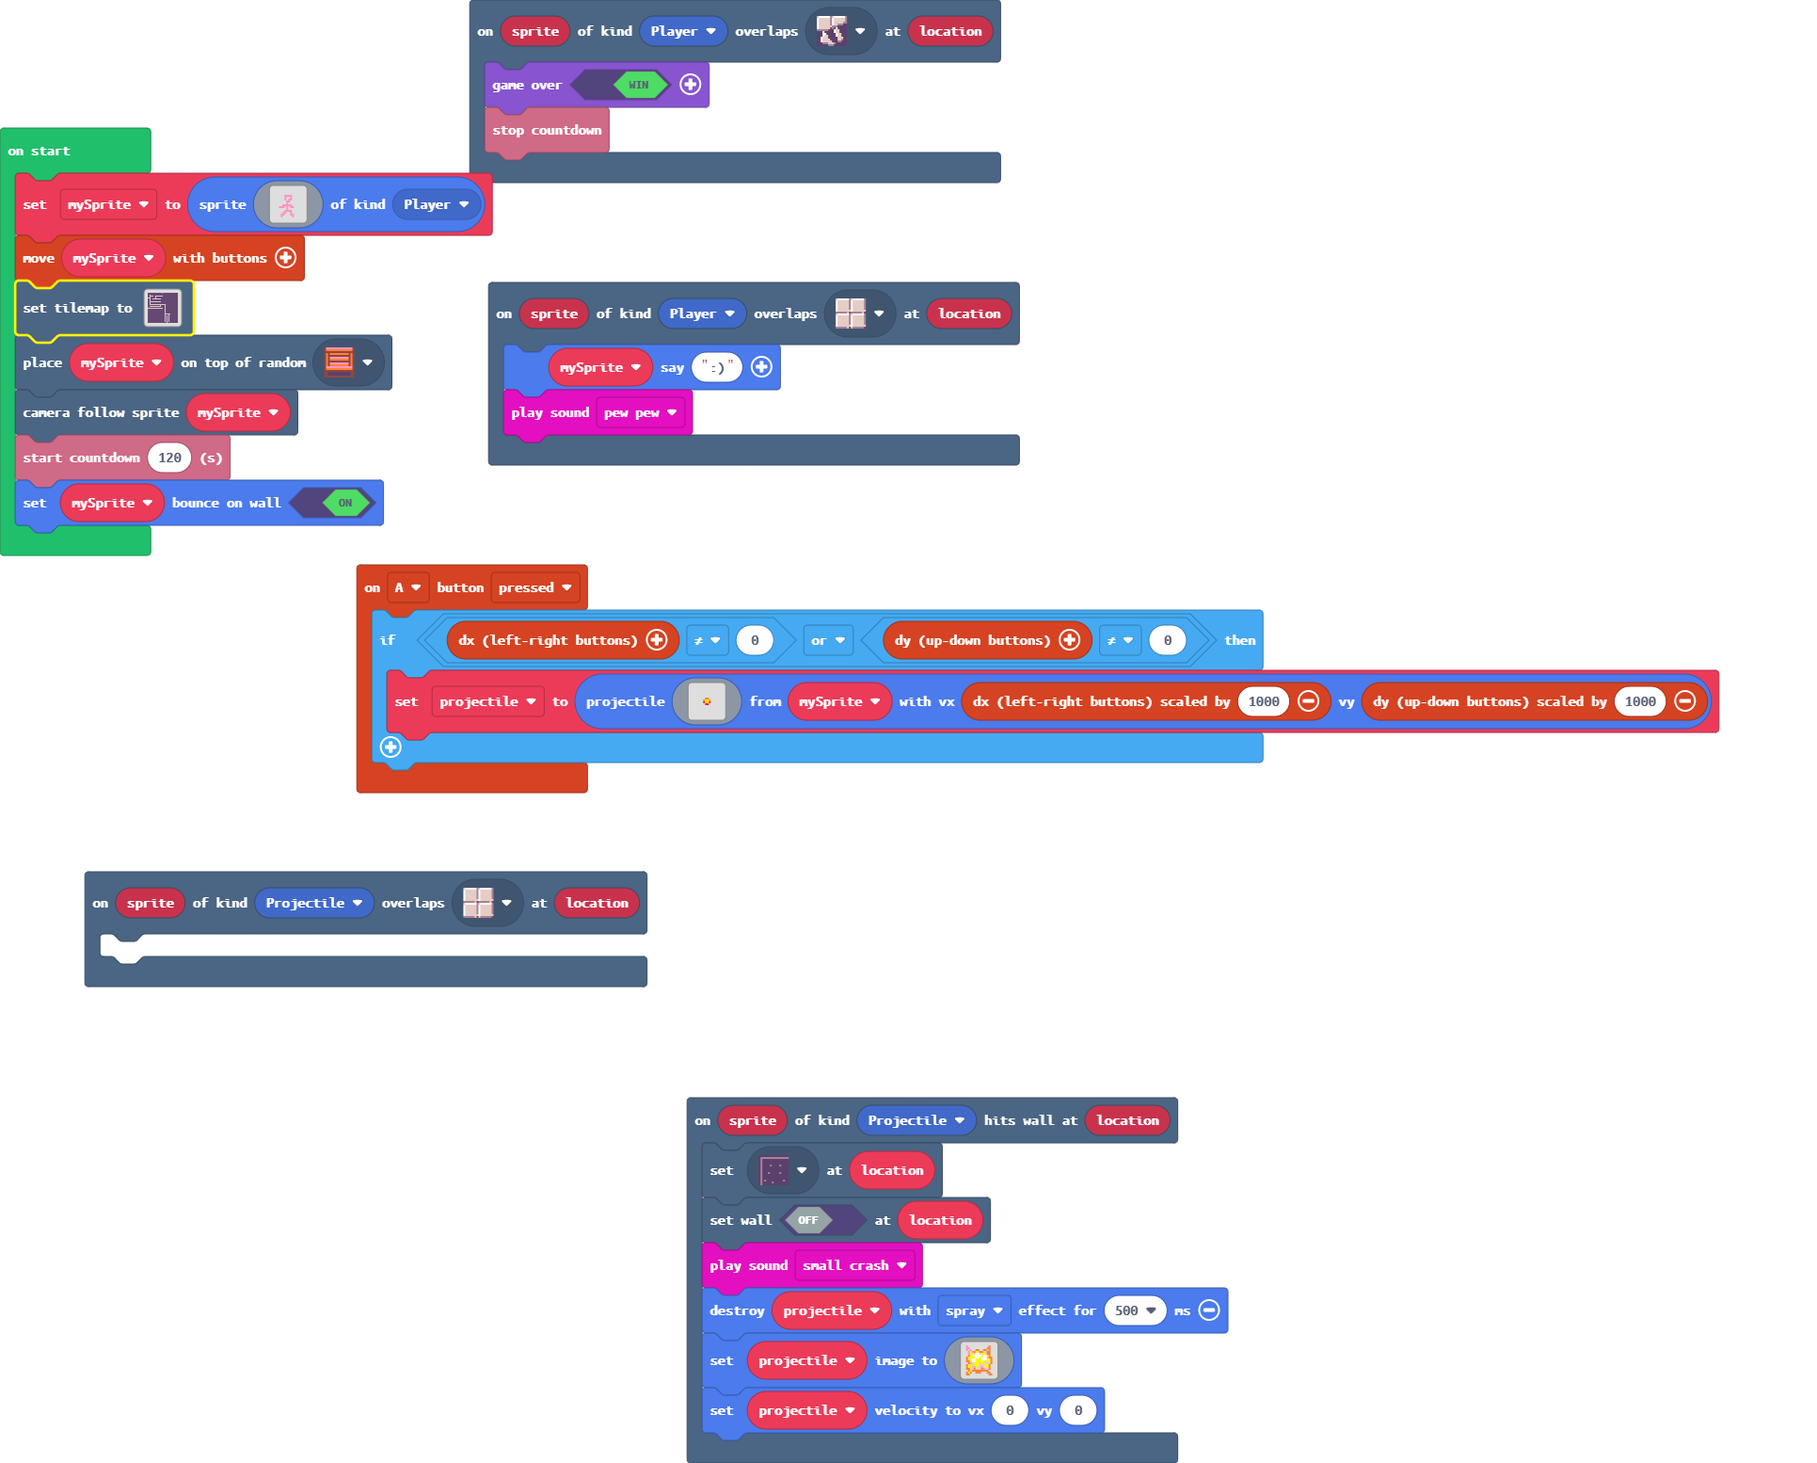
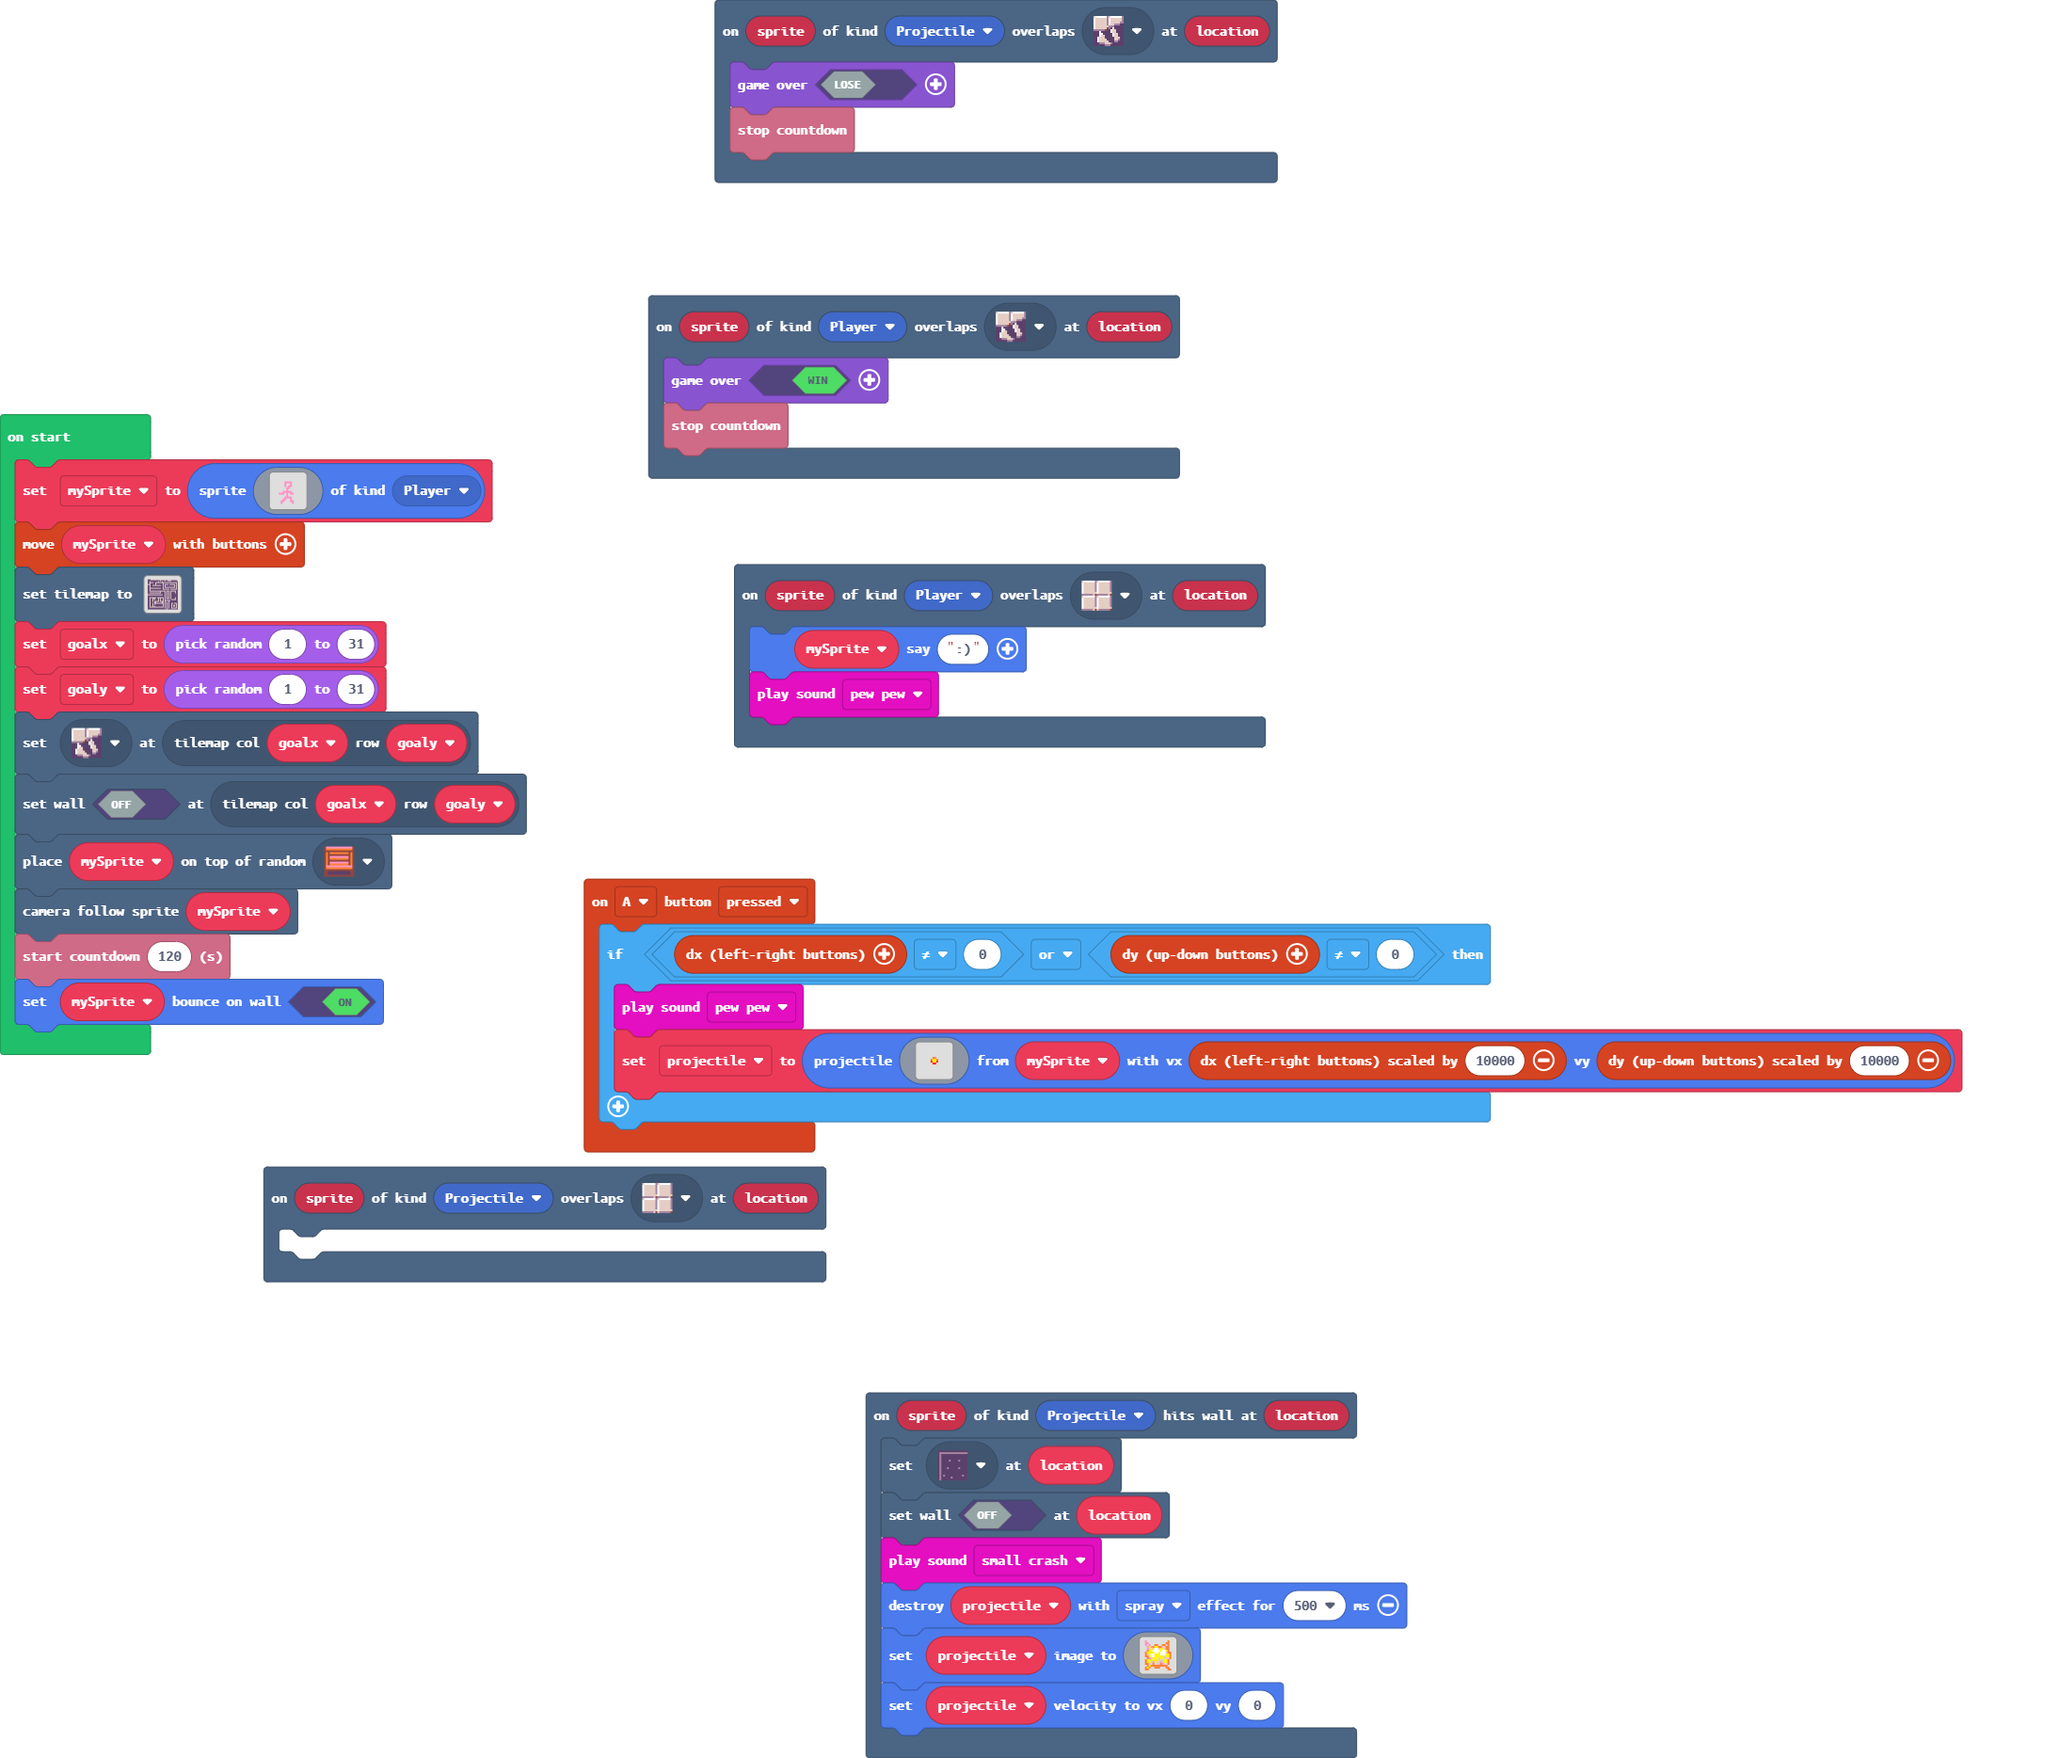
Random goal location, lose on killing goal

diff --git a/tilemap.g.ts b/tilemap.g.ts
@@ -46,40 +46,40 @@ namespace myTiles {
 . . . . . . . . . . . . . . . . 
 `, [myTiles.transparency16,sprites.dungeon.greenOuterNorthWest,sprites.dungeon.greenOuterNorth0,sprites.dungeon.greenOuterNorthEast,sprites.dungeon.greenOuterEast0,sprites.dungeon.greenOuterSouthWest,sprites.dungeon.greenOuterSouth0,sprites.dungeon.greenOuterSouth1,sprites.dungeon.greenOuterSouthEast,sprites.dungeon.greenOuterWest1,sprites.dungeon.greenOuterWest0,sprites.dungeon.floorDark2,sprites.dungeon.greenOuterNorth1,sprites.dungeon.greenOuterEast1,sprites.dungeon.floorDark1,sprites.dungeon.floorDark5,sprites.dungeon.greenInnerNorthEast,sprites.dungeon.purpleInnerNorthWest,sprites.dungeon.greenOuterWest2,sprites.dungeon.stairWest,sprites.dungeon.stairEast,sprites.dungeon.stairLarge,sprites.dungeon.greenInnerSouthWest,sprites.dungeon.greenOuterEast2,sprites.dungeon.greenOuterNorth2,sprites.dungeon.greenOuterSouth2,sprites.dungeon.greenInnerNorthWest,sprites.dungeon.greenInnerSouthEast,sprites.dungeon.stairLadder], TileScale.Sixteen);
             case "level1":
-            case "level1":return tiles.createTilemap(hex`2000200001010101010101010101010101010103010101010101010101010101010101010101010101010101010101010101010101010101010101010101010101010101010102010101010101010101010101010101010101010101010101010101010101010202020201010202020202020202010101010101010101010101010101010101020101010101020101010101010101010101010101010101010101010101020202010101010102010101010101010101010101010101010101010101010101010201010202020202020202020101010101010101010101010101010101010101020101010101010101010101010101010101010101010101010101010101010102010101010101010101010101010101010101010101010101010101010101010202020202020202020202020101010101010101010101010101010101010101020101010101010101010101010101010101010101010101010101010101010102010101010101010101010101010101010101010101010101010101010101010202020202020202020202020202020202010101010101010101010101010101010101010101010101010102010101010201010101010101010101010101010102020202020202020202020201010101020101010101010101010101010104010101010101010101010101010101010102010101010101010101010101010202020202020202020202020202020201010201010101010101010101010101010101010101010101010101010101010101020101010101010101010101010101010101010101010101010101010101010102010101010101010101010101010101010101010101010101010101010101010201010101010101010101010101010101010101010101010101010101010101020101010101010101010101010101010101010101010101010101010101010102010101010101010101010101010101010101010101010101010101010101010202020202020101010101010101010101010101010101010101010101010101020101010201010101010101010101010101010101010101010101010101010102010201020101010101010101010101010101010101010101010101010101010201020102010101010101010101010101010101010101010101010101010101020102010201010101010101010101010101010101010101010101010101010102010201020101010101010101010101010101010101010101010101010101010201020102010101010101010101010101010101010101010101010101010101020102010201010101010101010101010101010101010101010101010101010102010201020101010101010101010101010101010101010101010101010101010101020101010101010101010101`, img`
-................................
-................................
+            case "level1":return tiles.createTilemap(hex`2000200001010102020202020202020202020202020202020202020202020202020202020101010101010101010101010102010101010201010202020201010101010102010102010101010101010102010101020101010101010101010101010101010101010202020201010202020202020202020202020202020202020202020202010101020101010101020101010101010102010101010101010101010101010201020202010101010102010101010101010201020202020102020202020201020101010201010202020202020202020101020102010101010101010101020102010101020101010101010101010101010102010201010101010101010102010201010102010101010101010101010101010201020202020202020202020201020101010202020202020202020202020101020101010101010101010101010102010101020101010101010101010101010102020202020202010202020202020201010102010101010101010101010101010101010101010101010101010101010101010202020202020202020202020202020202010202020102020202020201010101010101010101010101010102010101010201020102010201010101020101010102020202020202020202020201010101020102010201020101010102010103010101010101010101010101010101010102010201020102010101010101010202020202020202020202020202020201010201020102010201010101010101010101010101010101010101010101010101020102010201020101010101010101010101010101010101010101010101010102010201020102010101010101010101020202020202020102020202020202010201020102010201010101020101010102010102020201010102010201010201020102020201020101010102010101010201010201020101010201020101020102010101010101020202020201010101020101020101010101020102010102010202020202020101010101010101010102010102010202020202010202020201020101010201010101010101010101010201010101020201010101010102020102010201020101010101010101010101020101020102020202020202020202010201020102010102020102020201010102010102010201010101010101010201020102010201010201010101020101010201010201010101010101010101020102010201020101020102020102010101020101020102010101010101010102010201020102010102010202010201010102020202020202020202020202020201020102010201010201010101020101010101010101010101010101010101010102010201020101020202020202010101010101010101010101010101010101010101020101010101010101010101`, img`
+...22222222222222222222222222222
+.............2....2..2222......2
+..2........2...2................
+..2222..222222.2222222222222222.
+..2.....2.......2.............2.
+222.....2.......2.2222.222222.2.
+..2..222222222..2.2.........2.2.
+..2.............2.2.........2.2.
+..2.............2.22222222222.2.
+..222222222222..2.............2.
+..2.............2222222.2222222.
 ..2.............................
-..2222..222222.2................
-..2.....2.......................
-222.....2.......................
-..2..222222222..................
-..2.............................
-..2.............................
-..222222222222..................
-..2.............................
-..2.............................
-..22222222222222222.............
-.............2....2.............
-..222222222222....2.............
-..................2.............
-2222222222222222..2.............
-..................2.............
-................................
-..................2.............
-..................2.............
-..................2.............
-..................222222........
-..................2...2.........
-..................2.2.2.........
-..................2.2.2.........
-..................2.2.2.........
-..................2.2.2.........
-..................2.2.2.........
-..................2.2.2.........
-..................2.2.2.........
+..22222222222222222.222.222222..
+.............2....2.2.2.2....2..
+..222222222222....2.2.2.2....2..
+..................2.2.2.2.......
+2222222222222222..2.2.2.2.......
+..................2.2.2.2.......
+....................2.2.2.......
+..2222222.2222222.2.2.2.2....2..
+..2..222...2.2..2.2.222.2....2..
+..2..2.2...2.2..2.2......22222..
+..2..2.....2.2..2.222222........
+..2..2.22222.2222.2...2.........
+..2....22......22.2.2.2.........
+..2..2.2222222222.2.2.2..22.222.
+..2..2.2........2.2.2.2..2....2.
+..2..2..........2.2.2.2..2.22.2.
+..2..2.2........2.2.2.2..2.22.2.
+..222222222222222.2.2.2..2....2.
+..................2.2.2..222222.
 ....................2...........
-`, [myTiles.transparency16,sprites.dungeon.darkGroundNorthWest0,sprites.dungeon.floorLight0,sprites.dungeon.floorLight3,sprites.dungeon.stairLadder,myTiles.tile1], TileScale.Sixteen);
+`, [myTiles.transparency16,sprites.dungeon.darkGroundNorthWest0,sprites.dungeon.floorLight0,sprites.dungeon.stairLadder], TileScale.Sixteen);
         }
         return null;
     })

diff --git a/main.ts b/main.ts
@@ -2,8 +2,13 @@ scene.onOverlapTile(SpriteKind.Player, sprites.dungeon.floorLight0, function (sp
     mySprite.sayText(":)")
     music.pewPew.play()
 })
+scene.onOverlapTile(SpriteKind.Projectile, sprites.dungeon.floorLight3, function (sprite, location) {
+    game.over(false)
+    info.stopCountdown()
+})
 controller.A.onEvent(ControllerButtonEvent.Pressed, function () {
     if (controller.dx() != 0 || controller.dy() != 0) {
+        music.pewPew.play()
         projectile = sprites.createProjectileFromSprite(img`
             . . . . . . . . . . . . . . . . 
             . . . . . . . . . . . . . . . . 
@@ -21,7 +26,7 @@ controller.A.onEvent(ControllerButtonEvent.Pressed, function () {
             . . . . . . . . . . . . . . . . 
             . . . . . . . . . . . . . . . . 
             . . . . . . . . . . . . . . . . 
-            `, mySprite, controller.dx(1000), controller.dy(1000))
+            `, mySprite, controller.dx(10000), controller.dy(10000))
     }
 })
 scene.onOverlapTile(SpriteKind.Projectile, sprites.dungeon.floorLight0, function (sprite, location) {
@@ -78,6 +83,10 @@ mySprite = sprites.create(img`
     `, SpriteKind.Player)
 controller.moveSprite(mySprite)
 tiles.setTilemap(tilemap`level1`)
+let goalx = randint(1, 31)
+let goaly = randint(1, 31)
+tiles.setTileAt(tiles.getTileLocation(goalx, goaly), sprites.dungeon.floorLight3)
+tiles.setWallAt(tiles.getTileLocation(goalx, goaly), false)
 tiles.placeOnRandomTile(mySprite, sprites.dungeon.stairLadder)
 scene.cameraFollowSprite(mySprite)
 info.startCountdown(120)
